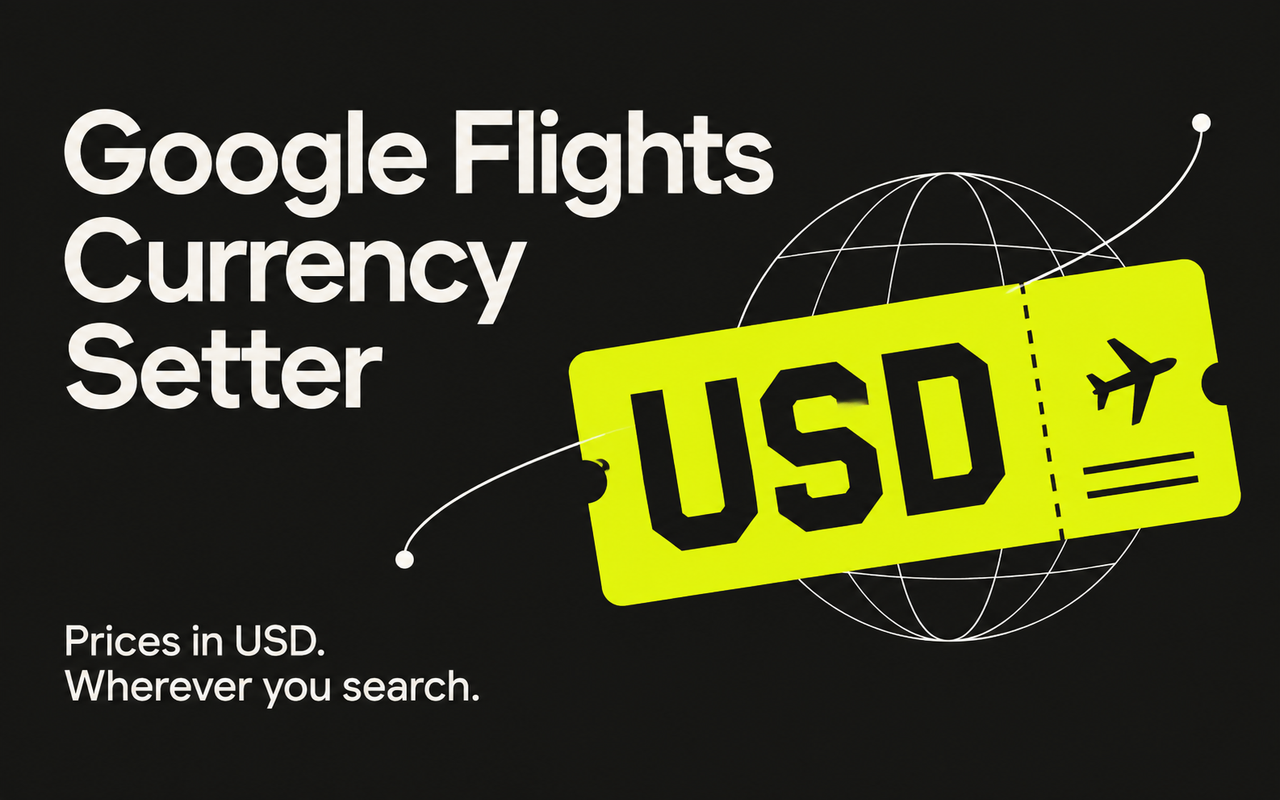
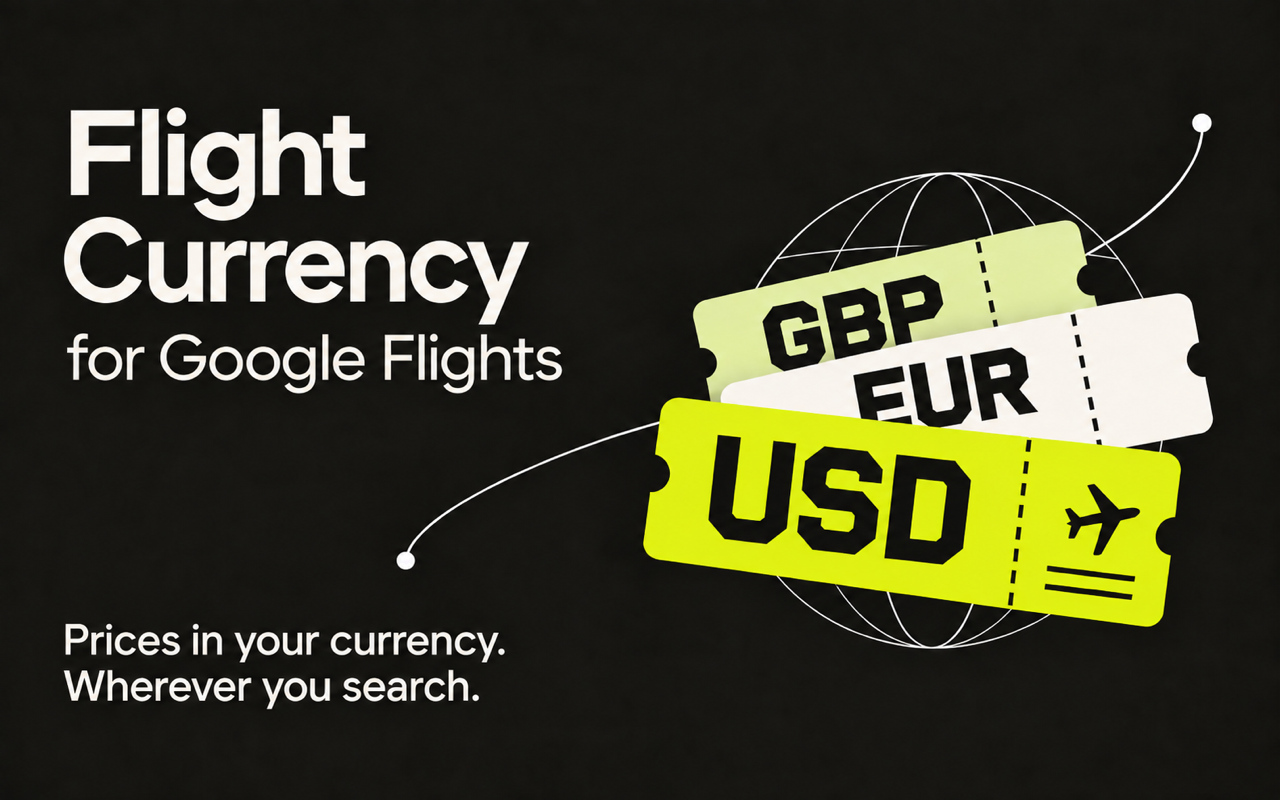
Prepare Flight Currency branding and privacy policy

diff --git a/src/components/marketing/catalog.ts b/src/components/marketing/catalog.ts
@@ -65,14 +65,14 @@ export const catalog: CatalogProject[] = [
   },
   {
     id: "flights-currency",
-    name: "Google Flights Currency",
+    name: "Flight Currency",
     category: "Web",
     format: "BROWSER EXTENSION",
-    description: "Keep Google Flights prices in USD instead of changing with your location.",
+    description: "Keep Google Flights prices in your preferred currency, wherever you search.",
     href: "https://chromewebstore.google.com/detail/google-flights-currency-s/nameliafoadmpledepdbcgnogcnfiemo",
     domain: "Chrome Web Store",
     image: "/marketing/projects/flights-currency-refresh.webp",
-    alt: "Google Flights Currency Setter artwork with an acid-yellow USD boarding pass and the message Prices in USD, wherever you search",
+    alt: "Flight Currency for Google Flights with GBP, EUR, and USD boarding passes and the message Prices in your currency, wherever you search",
   },
   {
     id: "badminton",

diff --git a/public/marketing/extension-artwork/google-flights-currency/README.md b/public/marketing/extension-artwork/google-flights-currency/README.md
@@ -1,16 +1,22 @@
-# Google Flights Currency Setter artwork
+# Flight Currency artwork
 
-Generated September 16, 2026 with the built-in image-generation tool. Promotional illustration, not a product screenshot. It describes the extension's current USD-only behavior.
+Approved multi-currency campaign image with a lighter “for Google Flights” subtitle. Exports: 1280×800 store screenshot and 440×280 promo tile. Existing airplane app icon is preserved from published version 0.1.0. Legacy artwork is retained in `legacy/`.
 
-## Exports
+## Generation prompts
 
-- `source.png`: original generated artwork, 1586×992.
-- `store-screenshot-1280x800.png`: 24-bit PNG without alpha for the Chrome Web Store screenshot slot.
-- `store-tile-440x280.png`: 24-bit PNG without alpha for the small promo tile.
-- `../../projects/flights-currency-refresh.webp`: 1280×720 center crop for the homepage.
+### current
 
-Exports use Sharp's center-cover resize. The original published image is retained at `../../projects/flights-currency.webp` for reference. The extension package and icon are unchanged.
+Edit the supplied Google Flights Currency Setter promotional artwork. Preserve its exact overall composition, premium Swiss graphic design, near-black background, off-white typography, acid-yellow boarding-pass motif, fine-line globe and flight path, airplane silhouette, generous spacing and landscape 8:5 aspect ratio. Preserve the large title exactly: "Google Flights" / "Currency" / "Setter". Change the bottom-left supporting copy to exactly: "Prices in your currency." / "Wherever you search." Keep it legible with enough space and no collision with the illustration. Change the ticket illustration to represent multiple selectable currencies rather than USD alone: use a tasteful fan of three overlapping boarding passes, each with a clearly readable code, "USD", "EUR", and "GBP". Keep the front pass acid-yellow, use off-white and a muted acid tint for the other two, dark text. Each currency code must be visibly readable; EUR is the euro code, not EU. Retain the simple airplane motif on the main ticket. Do not introduce flags, Google logos, gradients, app UI, buttons, price numbers, extra taglines, extra text, or a currency dropdown. Maintain the design the user likes and change only the supporting copy and the currency illustration. This is a design preview for an upcoming currency-choice feature, not a screenshot of working software.
 
-## Generation prompt
+### renamed
 
-Use case: ads-marketing. Create one polished Chrome Web Store promotional graphic for the browser extension "Google Flights Currency Setter". Landscape 1600 by 1000, 8:5 ratio. Style: precise Swiss editorial graphic design, understated premium software identity, flat and crisp, aligned to Experimental Software White Room branding but in dark mode. Solid warm near-black (#171715) backdrop, off-white type, a restrained vivid acid yellow (#DFFF00) accent. Main headline on the left, large and highly legible, EXACT text on three lines: "Google Flights\nCurrency\nSetter". Smaller but still readable supporting text at lower left, EXACT text: "Prices in USD.\nWherever you search." On the right use an original elegant abstract boarding-pass/currency graphic: an acid rectangle or ticket with oversized dark "USD", a small simple airplane silhouette and one clean curved flight-path line, fine off-white linework. Balanced negative space, confident asymmetrical composition. Typography should resemble General Sans Regular and Meslo for the small USD detail. All meaningful text and objects inside generous 10% safe margins; the image will also be center-cropped to 16:9 on a website and reduced to 440x280. Nothing tiny. No emoji, no Google logos, no currency picker or invented interface, no other currencies, no gradients, no glow, no 3D, no shadows, no photographs, no trademark affiliation claims, no extra text, no watermark. This is promotional illustration, not an application screenshot.
+Edit the supplied multi-currency promotional artwork to make a naming comparison variant. Change ONLY the large title block on the upper left: replace "Google Flights Currency Setter" with "Flight" on line 1 and "Currency" on line 2, in the same off-white sans-serif type, scale, weight and aligned position. Directly below that two-line title add a smaller but clear line "for Google Flights" in off-white, visibly subordinate to the main title yet readable at thumbnail size. Keep the exact bottom-left copy "Prices in your currency." / "Wherever you search." unchanged. Preserve the entire right-side artwork without changes: the three boarding passes labeled GBP, EUR and USD, the acid-yellow front ticket, airplane silhouette, thin-line globe and flight path. Preserve background, palette, texture, margins and 8:5 landscape proportions. No other additions or changes. This is the same campaign graphic with an alternative product name, not a redesign.
+
+### light
+
+Make one precise typography edit to this Flight Currency promotional image. ONLY change the font weight of the subtitle "for Google Flights" directly beneath the large main heading. Set that subtitle to a noticeably lighter regular weight, approximately General Sans Regular 400 instead of the current bold/semi-bold weight. Keep exactly the same wording, font size, baseline, left alignment, off-white color, and placement. Preserve the big Flight Currency heading, the bottom "Prices in your currency. Wherever you search." copy, all three GBP / EUR / USD boarding passes, the airplane, globe, flight path, background texture, colors and composition completely unchanged. Do not redesign or add anything. Keep the same image dimensions and 8:5 landscape aspect ratio.
+
+
+## Website release coordination
+
+The website card reflects the upcoming currency-picker release 1.1.0. The extension is installed locally and uploaded as a Chrome Web Store draft, not submitted or published. Coordinate the website merge and store release. A replacement privacy policy is prepared at `/legal/flight-currency-privacy.txt`; update the store draft policy URL after that path is publicly available.
